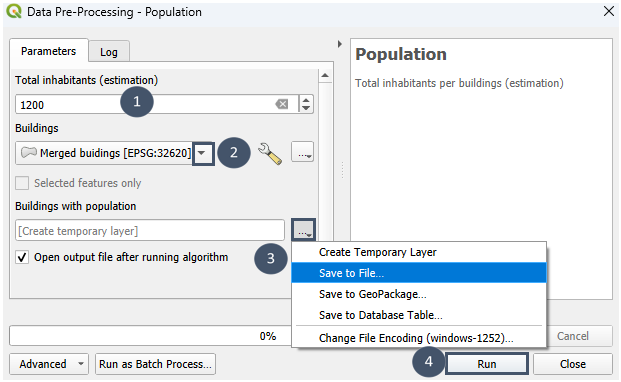
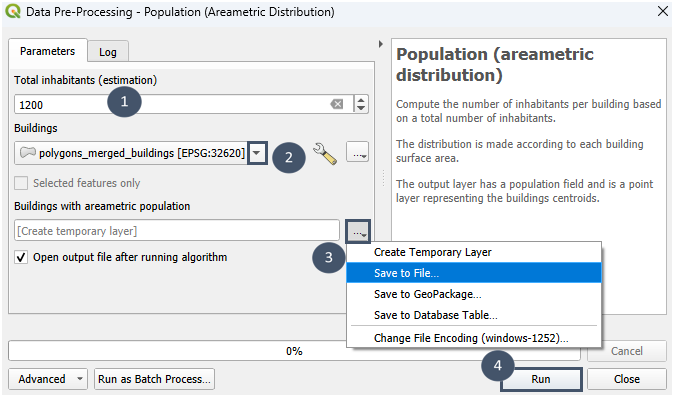
new images population modules + update preparation.rst

Changed region(s): [[0.0, 0.0864, 1.0, 1.0], [0.0, 0.0, 0.4895, 0.0576], [0.9791, 0.0, 1.0, 0.0576]]

diff --git a/docs/preparation.rst b/docs/preparation.rst
@@ -119,7 +119,7 @@ OpenStreetMap est un outil ouvert et collaboratif.
 **2.** Indiquer la couche *polygone* qui délimite la zone à extraire (bulle 1), cocher *Reprojection des couches dans le SCR du projet* (bulle 2) puis exécuter (bulle 3).
 
 .. image:: _static/r+b.png
-      :width: 615
+      :width: 592
 
 **3.** Après exécution du module, vous disposez de **trois sorties** :
 
@@ -140,18 +140,38 @@ La couche **routes** peuvent être utilisée en entrée du **module** ``Réseau`
     Par exemple : 
 
           .. image:: _static/save-temp.png
-               :width: 700
+               :width: 657
 
 .. _population:
 
 Modules ``Population`` : ``Population (répartition uniforme)`` et ``Population (répartition surfacique)``
 ^^^^^^^^^^^^^^^^^^^^^^^^^^^^^^^^^^^^^^^^^^^^^^^^^^^^^^^^^^^^^^^^^^^^^^^^^^^^^^^^^^^^^^^^^^^^^^^^^^^^^^^^^
 
-Les modules ``Population`` permettent d'assigner à chaque bâtiment un nombre d'habitants via un attribut *population* et de réduire chaque bâtiment en un point (son centroïde).
+Les modules ``Population`` permettent d'assigner à chaque bâtiment (polygone) un nombre d'habitants via un attribut *population* et de réduire chaque bâtiment en un point (son centroïde).
 Ils se distinguent l'un de l'autre dans la modalité de répartition (nombre fixe ou variable d'habitants par bâtiment). Selon votre besoin, vous pouvez utiliser soit l'un, soit l'autre des modules ``Population``.
 
 Module ``Population (répartition uniforme)``
 """"""""""""""""""""""""""""""""""""""""""""
+
+**Utilisation du module**
+
+**1.** Chercher ``elan`` dans la boîte à outils de traitements et sélectionner ``Population (répartition uniforme)``.
+
+.. image:: _static/start-pop-u.png
+    :width: 275
+
+**2.** Renseigner la couche de bâtiments (bulle 1), indiquer un nombre moyen d'habitants par bâtiment (bulle 2), enregistrer dans un fichier (bulle 3) puis exécuter (bulle 4).
+
+.. attention::
+    La couche de bâtiments doit être de type *polygone*.
+
+.. image:: _static/use-pop-u.png
+    :width: 675
+
+**3.** Après exécution du module, vous disposez **d'une couche de type point** avec les **centroïdes des bâtiments** de la zone.
+A chaque centroïde est associé un nombre identique d'individus (**attribut population**) qui correspond au nombre moyen d'habitants par bâtiment renseigné.
+A ce stade, vous pouvez éditer la couche et ajuster manuellement ce nombre pour certains bâtiments si vous le souhaitez (immeuble par exemple).
+
 
 Module ``Population (répartition surfacique)``
 """"""""""""""""""""""""""""""""""""""""""""""
@@ -173,10 +193,10 @@ Pour plus d'informations sur la méthode de répartition utilisée :
 
 .. _start-pop:
 
-**1.** Chercher ``elan`` dans la boîte à outils de traitements et sélectionner ``Population``.
+**1.** Chercher ``elan`` dans la boîte à outils de traitements et sélectionner ``Population (répartition surfacique)``.
 
 .. image:: _static/start-pop.png
-    :width: 354
+    :width: 274
 
 **2.** Indiquer une valeur de population (bulle 1), renseigner la couche de bâtiments (bulle 2), enregistrer dans
 un fichier (bulle 3) puis exécuter (bulle 4).
@@ -185,7 +205,7 @@ un fichier (bulle 3) puis exécuter (bulle 4).
     La couche de bâtiments doit être de type *polygone*.
 
 .. image:: _static/use-pop.png
-    :width: 621
+    :width: 675
 
 **3.** Après exécution du module, vous disposez **d'une couche de type point** avec les **centroïdes des bâtiments** de la zone.
 A chaque centroïde est associé un nombre d'individus (**attribut population**) auquel vous pouvez accéder en ouvrant la table 
@@ -193,10 +213,15 @@ attributaire de la couche.
 
 .. tip::
     Pour **répartir plus finement la population** (par exemple par quartiers), sélectionner les entités d'un quartier avant de lancer
-    le module ``Population`` et après avoir indiqué la couche, cocher **Entités sélectionnés uniquement**. 
+    l'un des modules ``Population`` et après avoir indiqué la couche, cocher **Entités sélectionnés uniquement**. 
     
     Répéter autant de fois que de quartiers de la zone. Puis utiliser l'outil ``Fusionner des couches vecteur`` de QGIS pour obtenir une seule et unique 
     couche (entrée du module ``Réseau``).
+
+Module ``Projection sur routes``
+^^^^^^^^^^^^^^^^^^^^^^^^^^^^^^^^
+
+**Utilisation du module**
 
 
 Entrées du module ``Hydraulique``
